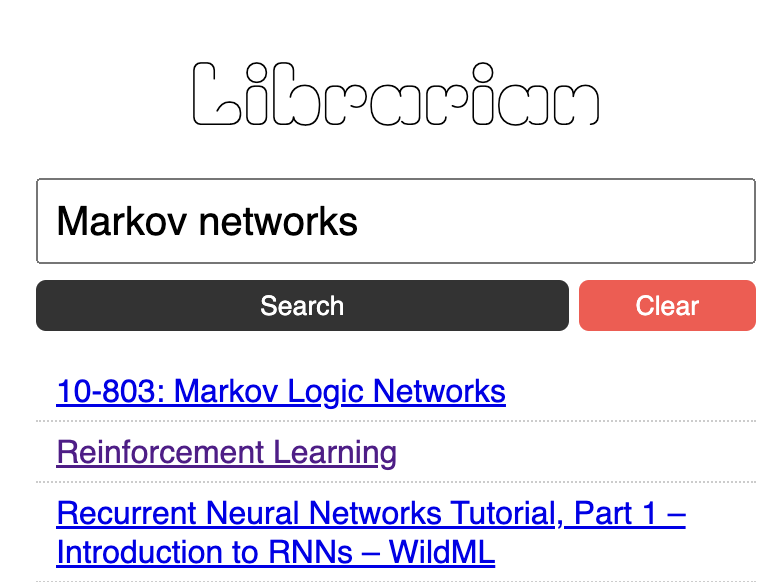
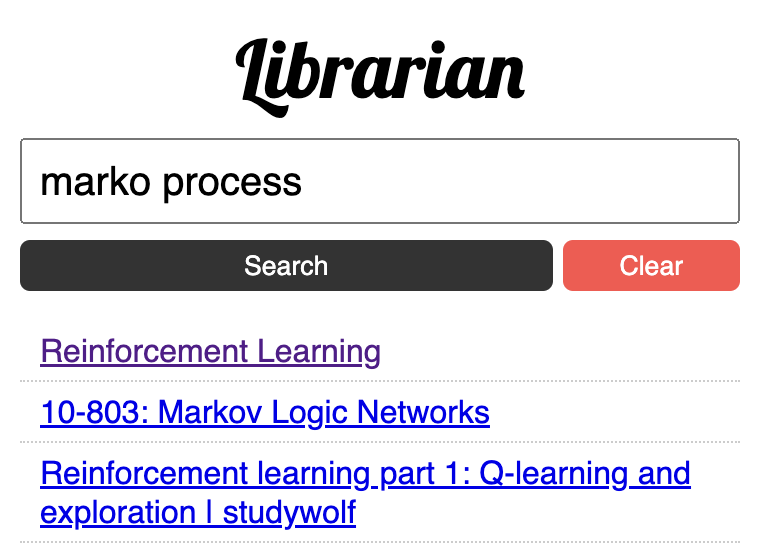
style

diff --git a/src/popup.css b/src/popup.css
@@ -22,7 +22,7 @@ body {
     font-size: 40px;
     text-align: center;
     font-weight: 500;
-	font-family: 'Moirai One', system-ui;
+	font-family: 'Lobster', system-ui;
 }
 
 #subtitle {
@@ -33,18 +33,16 @@ body {
 }
 
 .container {
-	display: flex;
-	flex-direction: column;
     width: 360px;
 	margin-top: 20px;
-	align-items: center;
 }
 
 #text {
     width: 100%;
     padding: 8px;
     font-size: 20px;
-	margin-top: 15px;
+	margin-top: 10px;
+    margin-bottom: 8px;
 }
 
 #text:focus {
@@ -97,8 +95,9 @@ body {
 
 #index-loader {
 	display: flex;
-	flex-direction: column;
-    margin-top: 5px;
+    flex-direction: column;
+	align-items: center;
+    margin-top: 10px;
 }
 
 .loader {

diff --git a/src/popup.html b/src/popup.html
@@ -7,7 +7,7 @@
 		<link rel="preconnect" href="https://fonts.googleapis.com">
 		<link rel="preconnect" href="https://fonts.gstatic.com" crossorigin>
 		<link href="https://fonts.googleapis.com/css2?family=Montserrat:wght@400&display=swap" rel="stylesheet">
-		<link href="https://fonts.googleapis.com/css2?family=Moirai+One&family=Open+Sans&display=swap" rel="stylesheet">
+		<link href="https://fonts.googleapis.com/css2?family=Lobster&display=swap" rel="stylesheet">
 		<link href="https://fonts.googleapis.com/css2?family=Open+Sans&display=swap" rel="stylesheet">
 		<title>Librarian</title>
 		<link rel="stylesheet" href="./popup.css" />
